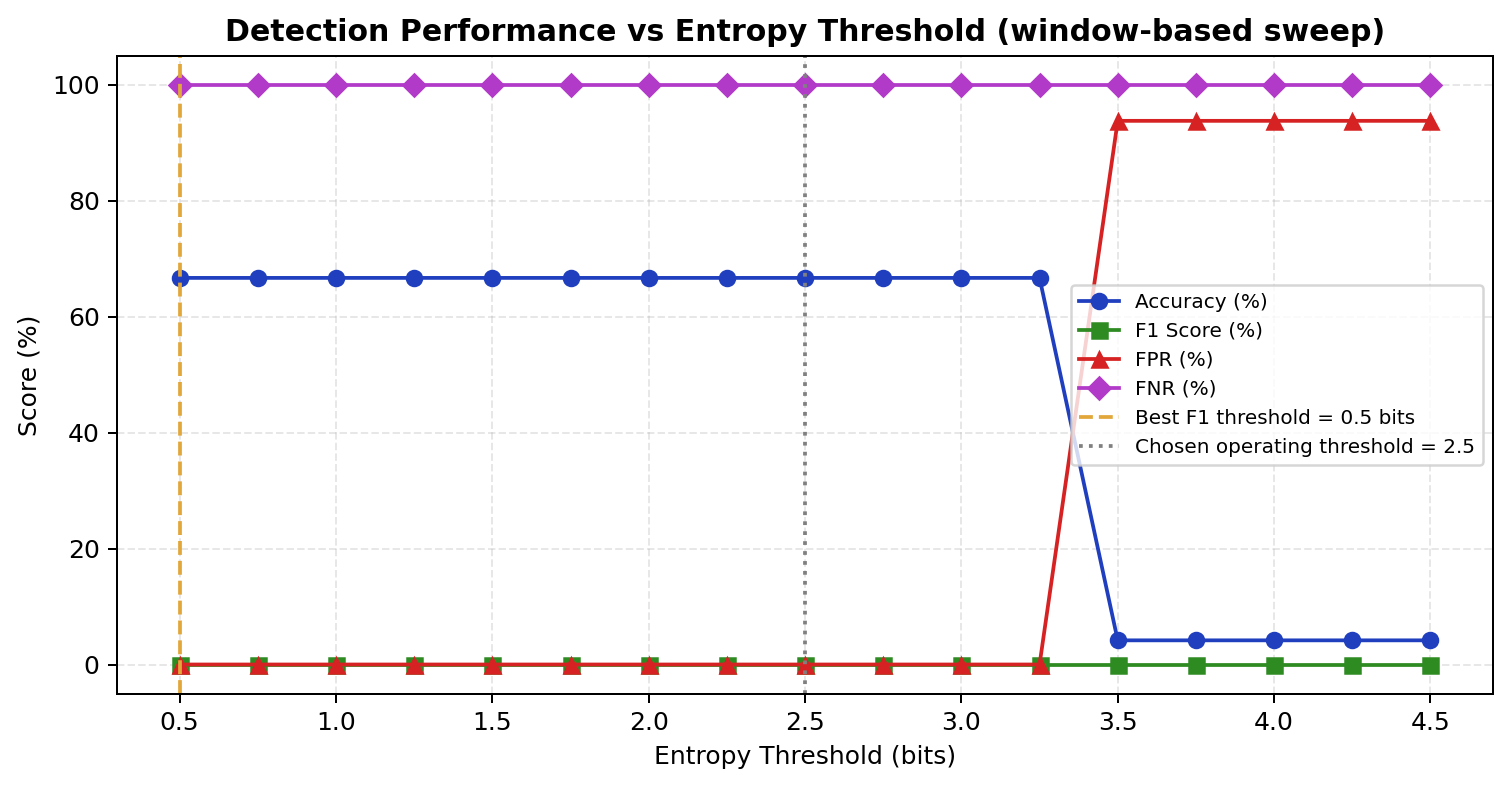
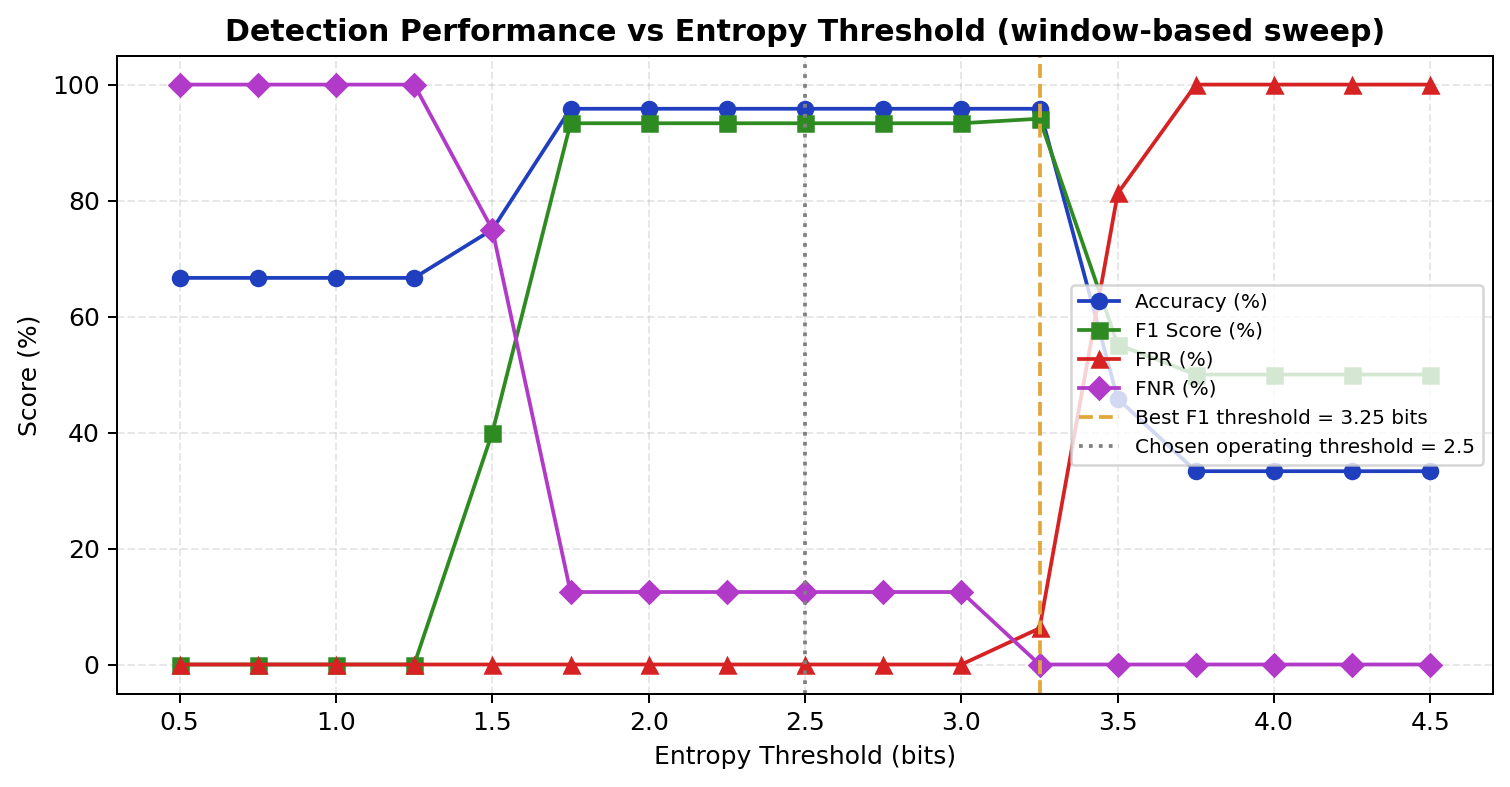
Describe your changes

diff --git a/data/generate_calibration_flows.py b/data/generate_calibration_flows.py
@@ -1,0 +1,115 @@
+#!/usr/bin/env python3
+"""
+data/generate_calibration_flows.py
+
+Generates a synthetic calibration_flows.csv for calibrating
+ENTROPY_THRESH in controller/ddos_controller.py, matching the schema
+already used elsewhere in this project:
+
+    src_ip, dst_ip, proto, dst_port, packets, bytes, duration, label
+
+This REPLACES the original (lost) generator. The key fix vs. the old
+file: attack rows now come from a SMALL POOL of attacker IPs repeated
+many times each (mimicking a real botnet / flood, where the same
+handful of sources hammer the target), instead of a fresh random IP
+per row. A fresh random IP per attack row makes attack traffic look
+MORE diverse than normal traffic, which is the opposite of what a real
+DDoS looks like and makes entropy-based detection impossible to
+calibrate correctly.
+
+Layout produced (already ordered, no need for reorder_calibration.py):
+    baseline traffic (label=0) -> attack burst (label=1) -> recovery (label=0)
+
+Run:
+    python3 data/generate_calibration_flows.py --output data/calibration_flows.csv
+    python3 data/generate_calibration_flows.py --output data/calibration_flows.csv \\
+        --n-baseline 480 --n-attack 400 --n-recovery 320 --n-attackers 3
+"""
+import argparse
+import csv
+import random
+
+
+NORMAL_HOST_IPS = [f"10.0.0.{i}" for i in range(1, 13)]  # 12 normal hosts, mirrors old data
+TARGET_IP = "10.0.0.12"
+NORMAL_PORTS = [80, 443, 22, 5201, 5202]
+PROTOS = ["6", "17"]  # TCP, UDP
+
+
+def random_attacker_pool(n_attackers):
+    """Small pool of attacker IPs, like a real (small) botnet / a handful
+    of spoofed sources -- NOT a fresh IP per packet."""
+    pool = []
+    for _ in range(n_attackers):
+        pool.append(f"192.168.{random.randint(2, 6)}.{random.randint(2, 254)}")
+    return pool
+
+
+def make_benign_row():
+    src = random.choice(NORMAL_HOST_IPS)
+    dst = random.choice([ip for ip in NORMAL_HOST_IPS if ip != src])
+    proto = random.choice(PROTOS)
+    port = random.choice(NORMAL_PORTS)
+    packets = random.randint(100, 900)
+    byte_count = packets * random.randint(40, 120)
+    duration = round(random.uniform(0.3, 12.0), 3)
+    return {
+        "src_ip": src, "dst_ip": dst, "proto": proto, "dst_port": port,
+        "packets": packets, "bytes": byte_count, "duration": duration,
+        "label": "0",
+    }
+
+
+def make_attack_row(attacker_pool):
+    # each attack row picks ONE of the small attacker pool -- this is what
+    # makes the attack-window source-IP distribution low entropy (few
+    # distinct IPs dominating), matching a real SYN/UDP flood.
+    src = random.choice(attacker_pool)
+    packets = random.randint(5000, 35000)   # flood-scale packet counts
+    byte_count = packets * random.randint(60, 320)
+    duration = round(random.uniform(0.3, 1.2), 3)  # short bursts, flood-like
+    proto = "6"  # SYN flood == TCP
+    return {
+        "src_ip": src, "dst_ip": TARGET_IP, "proto": proto, "dst_port": 80,
+        "packets": packets, "bytes": byte_count, "duration": duration,
+        "label": "1",
+    }
+
+
+def main():
+    parser = argparse.ArgumentParser(description="Generate a realistic calibration_flows.csv")
+    parser.add_argument("--output", required=True, help="output CSV path")
+    parser.add_argument("--n-baseline", type=int, default=480, help="rows of pre-attack baseline traffic")
+    parser.add_argument("--n-attack", type=int, default=400, help="rows of attack traffic")
+    parser.add_argument("--n-recovery", type=int, default=320, help="rows of post-attack recovery traffic")
+    parser.add_argument("--n-attackers", type=int, default=3,
+                         help="size of the attacker IP pool (small = more realistic flood)")
+    parser.add_argument("--seed", type=int, default=42, help="random seed for reproducibility")
+    args = parser.parse_args()
+
+    random.seed(args.seed)
+    attacker_pool = random_attacker_pool(args.n_attackers)
+    print(f"Attacker pool ({args.n_attackers} IPs): {attacker_pool}")
+
+    rows = []
+    rows += [make_benign_row() for _ in range(args.n_baseline)]
+    rows += [make_attack_row(attacker_pool) for _ in range(args.n_attack)]
+    rows += [make_benign_row() for _ in range(args.n_recovery)]
+
+    fieldnames = ["src_ip", "dst_ip", "proto", "dst_port", "packets", "bytes", "duration", "label"]
+    with open(args.output, "w", newline="") as f:
+        writer = csv.DictWriter(f, fieldnames=fieldnames)
+        writer.writeheader()
+        writer.writerows(rows)
+
+    print(f"Wrote {len(rows)} rows to {args.output}")
+    print(f"Structure: {args.n_baseline} baseline (label=0) -> "
+          f"{args.n_attack} attack burst (label=1, {args.n_attackers} attacker IPs) -> "
+          f"{args.n_recovery} recovery (label=0)")
+    print("\nNext steps:")
+    print(f"  python3 detection/entropy_detector.py --input {args.output} --sweep")
+    print(f"  python3 detection/plot_confusion_matrix.py --input {args.output} --threshold 2.5")
+
+
+if __name__ == "__main__":
+    main()
